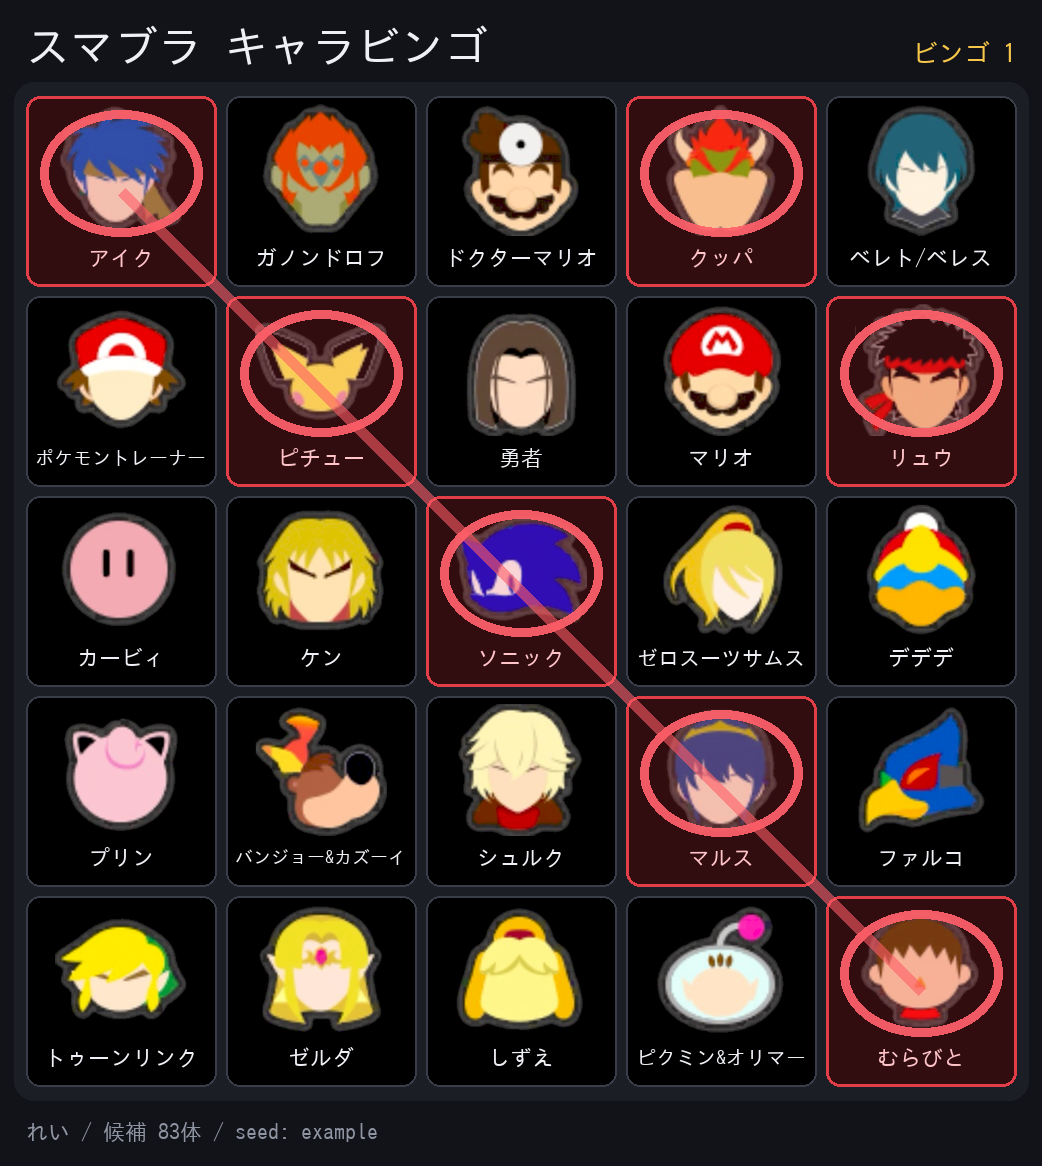
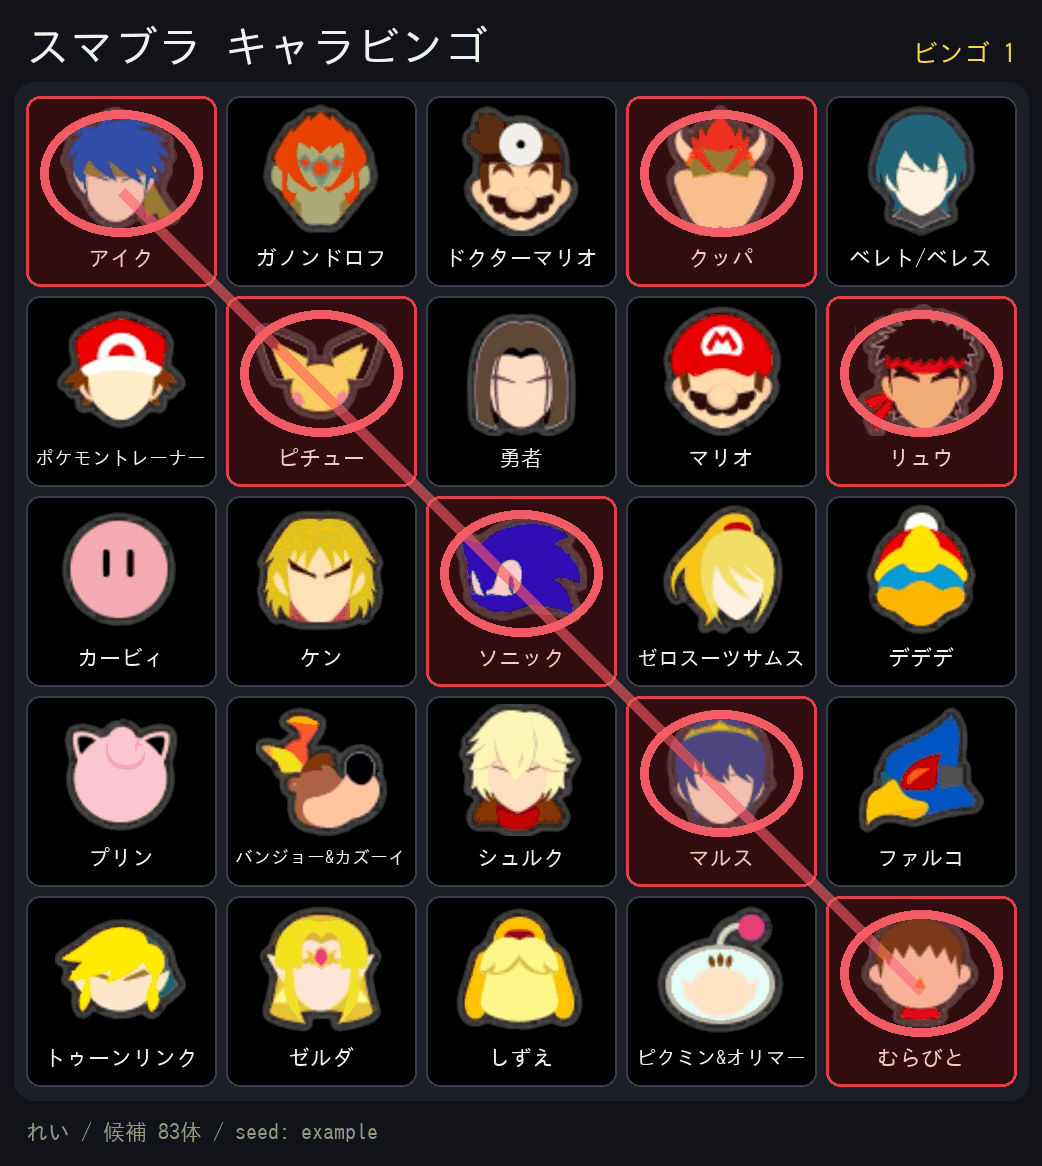
カード画像を256色に減色してファイルサイズを1/3に
見た目はほぼ変わらないまま 494KB → 161KB（5x5）になる。
マークのたびに画像を貼り直すので、無料枠の通信量と
アップロードの待ち時間の両方に効く。

Claude-Session: https://claude.ai/code/session_019pHbqnozXt33wPBkxgvCYt

diff --git a/smash-bingo-bot/smashbingo/render.py b/smash-bingo-bot/smashbingo/render.py
@@ -224,6 +224,9 @@ def render_card(card: Card) -> bytes:
         foot += f" / seed: {card.seed}"
     draw.text((PAD, height - FOOTER + 8), foot, font=_font(22), fill=TEXT_DIM)
 
+    # 256色に減色してから保存する。見た目はほぼ変わらないのにファイルは
+    # 1/3ほどになり、無料枠の通信量やアップロードの待ち時間に効く。
     buf = io.BytesIO()
-    base.save(buf, format="PNG", optimize=True)
+    base.quantize(colors=256, method=Image.MEDIANCUT, dither=Image.NONE).save(
+        buf, format="PNG", optimize=True)
     return buf.getvalue()
